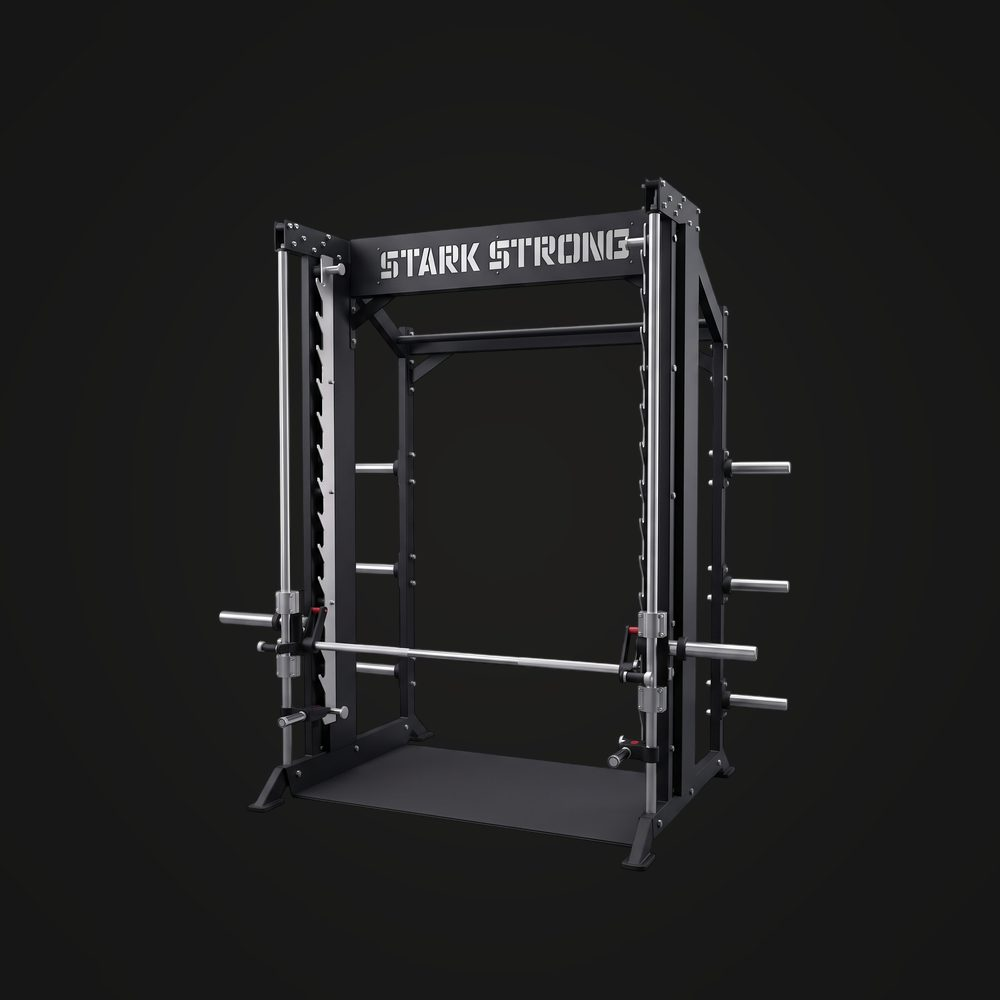
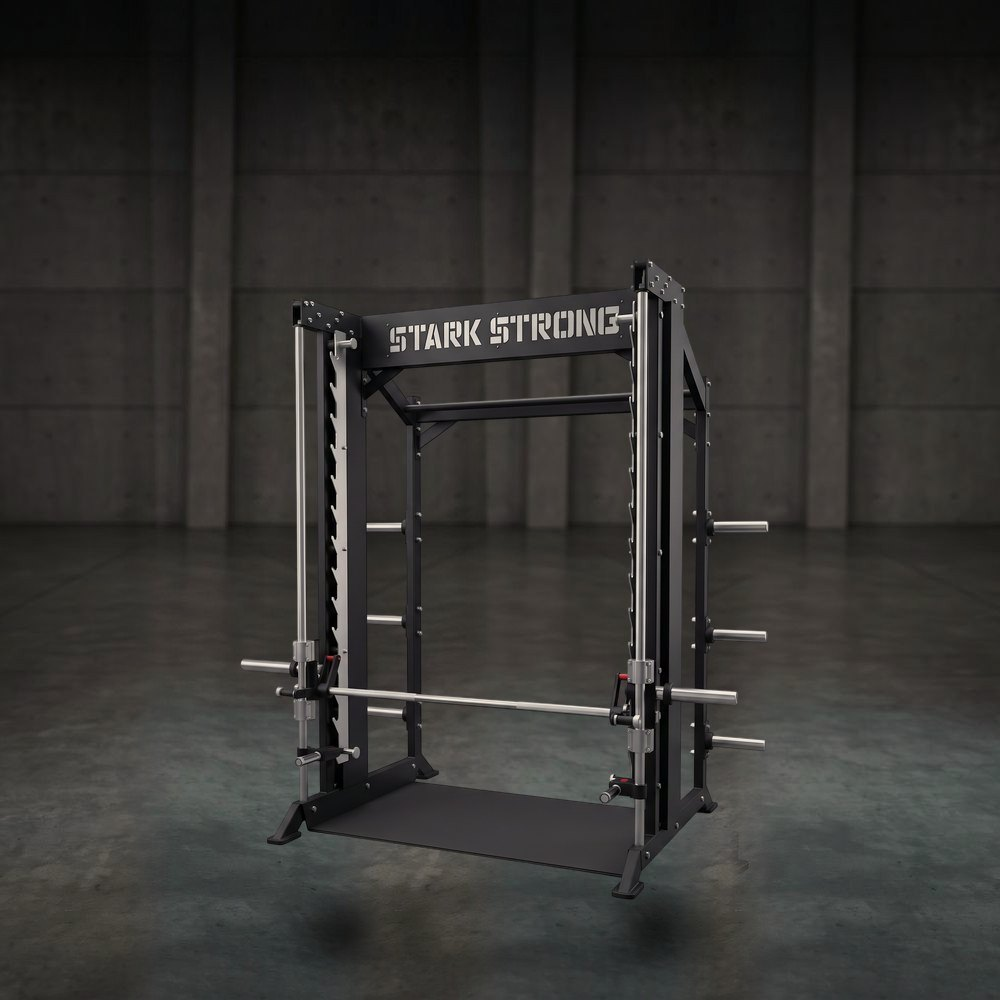
Coloca o fundo de concreto padrão nas fotos novas da LP de Natal e corrige a URL da Black
Claude-Session: https://claude.ai/code/session_01Qei8Zqq5C2wpKZnHECd2Jn

diff --git a/CLAUDE.md b/CLAUDE.md
@@ -41,7 +41,7 @@ Atualize esta tabela a cada LP criada, publicada ou encerrada.
 | LP | Pasta | Plataforma | Objetivo / CTA | Status | URL |
 |----|-------|------------|----------------|--------|-----|
 | Glute Strong · Fitness Brasil Expo 2026 | `lps/2026-08-glute-strong-fitness-brasil` | GreatPages | Reserva de atendimento prioritário no stand F13 (Rua 1, 100 m²) · simulador de área | a confirmar (feira já ocorreu: 27–29/08/2026) | a preencher |
-| Black Stark Strong · Black Friday 2026 | `lps/2026-11-black-stark` | HTML estático | Queima de estoque geração 5 (até 50% OFF, PIX) · seleção de equipamentos → WhatsApp comercial | em revisão | prévia: https://l9films.github.io/lps_stark_strong/ · oficial prevista: https://starkstrong.com.br/black-26/ |
+| Black Stark Strong · Black Friday 2026 | `lps/2026-11-black-stark` | HTML estático | Queima de estoque geração 5 (até 50% OFF, PIX) · seleção de equipamentos → WhatsApp comercial | em revisão | prévia: https://l9films.github.io/lps_stark_strong/ · oficial: https://starkstrong.com.br/campanha/black-26 |
 | Saldão de Natal Stark Strong 2026 | `lps/2026-12-saldao-natal` | HTML estático (prévia no GitHub Pages) | Queima de estoque 07–26/12 (até 50% OFF, PIX) · seleção → WhatsApp comercial | em produção (produtos da Black, estoque a atualizar) | oficial prevista: https://starkstrong.com.br/campanha/natal-26 · prévia: https://l9films.github.io/lps_stark_strong/natal/ |
 
 Status possíveis: `briefing` → `em produção` → `em revisão` → `publicada` → `encerrada`.

diff --git a/lps/2026-12-saldao-natal/README.md b/lps/2026-12-saldao-natal/README.md
@@ -40,4 +40,4 @@ Ainda sem GTM, sem captura de UTM e sem eventos de envio do formulário (a Black
 ## Seleção de produtos (27/11/2026)
 - Da Black, saíram todos os equipamentos com bateria de peso (9003, 9091, 9004, 9005, 9039, 9061, 9057, 9227, 9116).
 - Entraram do inventário (proposta Bling nº 7461): 9030 Remada cavalinho (R$ 7.945), 9002 Smith guiado (R$ 19.860), 9062 Suporte búlgaro (R$ 1.890); 9114 Remada sentada articulada passou a R$ 9.950.
-- Total: 13 equipamentos. Fotos em `img/` (as 3 novas recortadas do PDF). Estoque ainda a atualizar.
+- Total: 13 equipamentos. Fotos em `img/` (as 3 novas recortadas do PDF e montadas no fundo de concreto padrão). Estoque ainda a atualizar.
